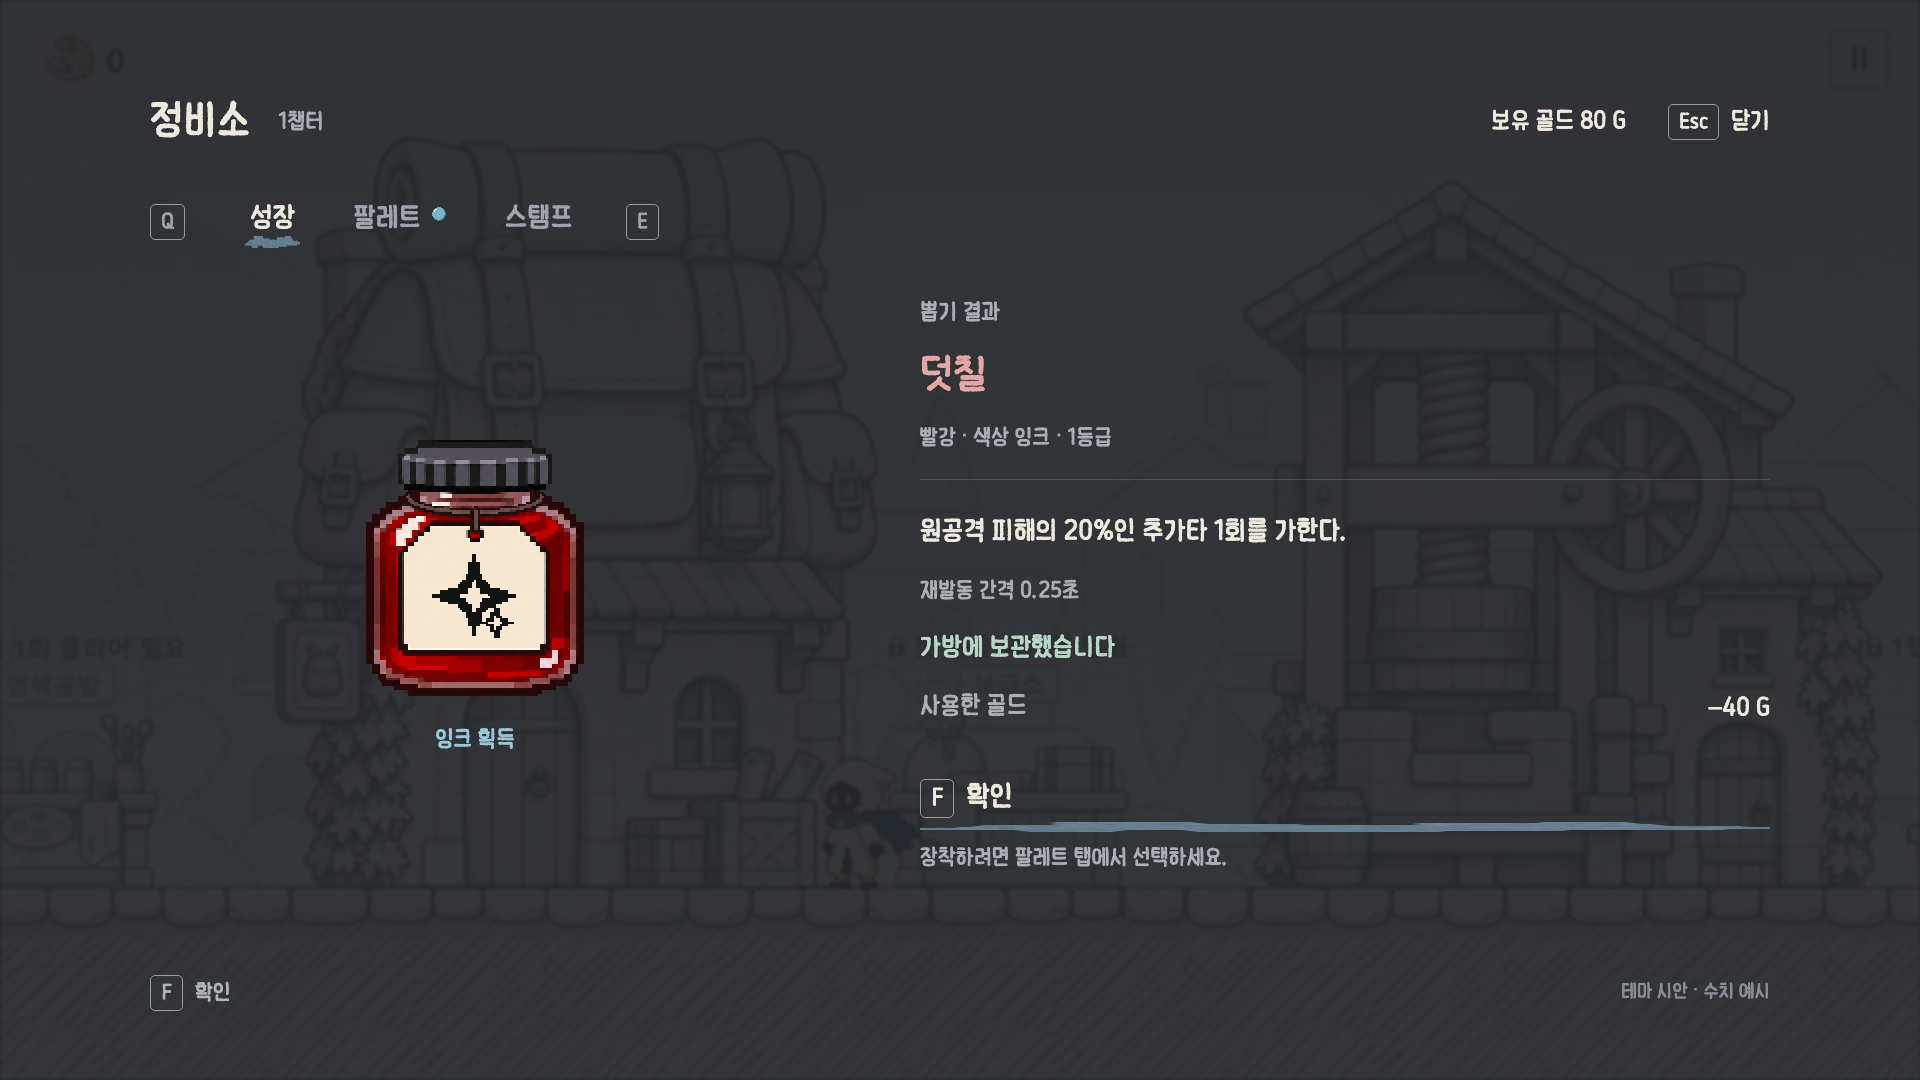
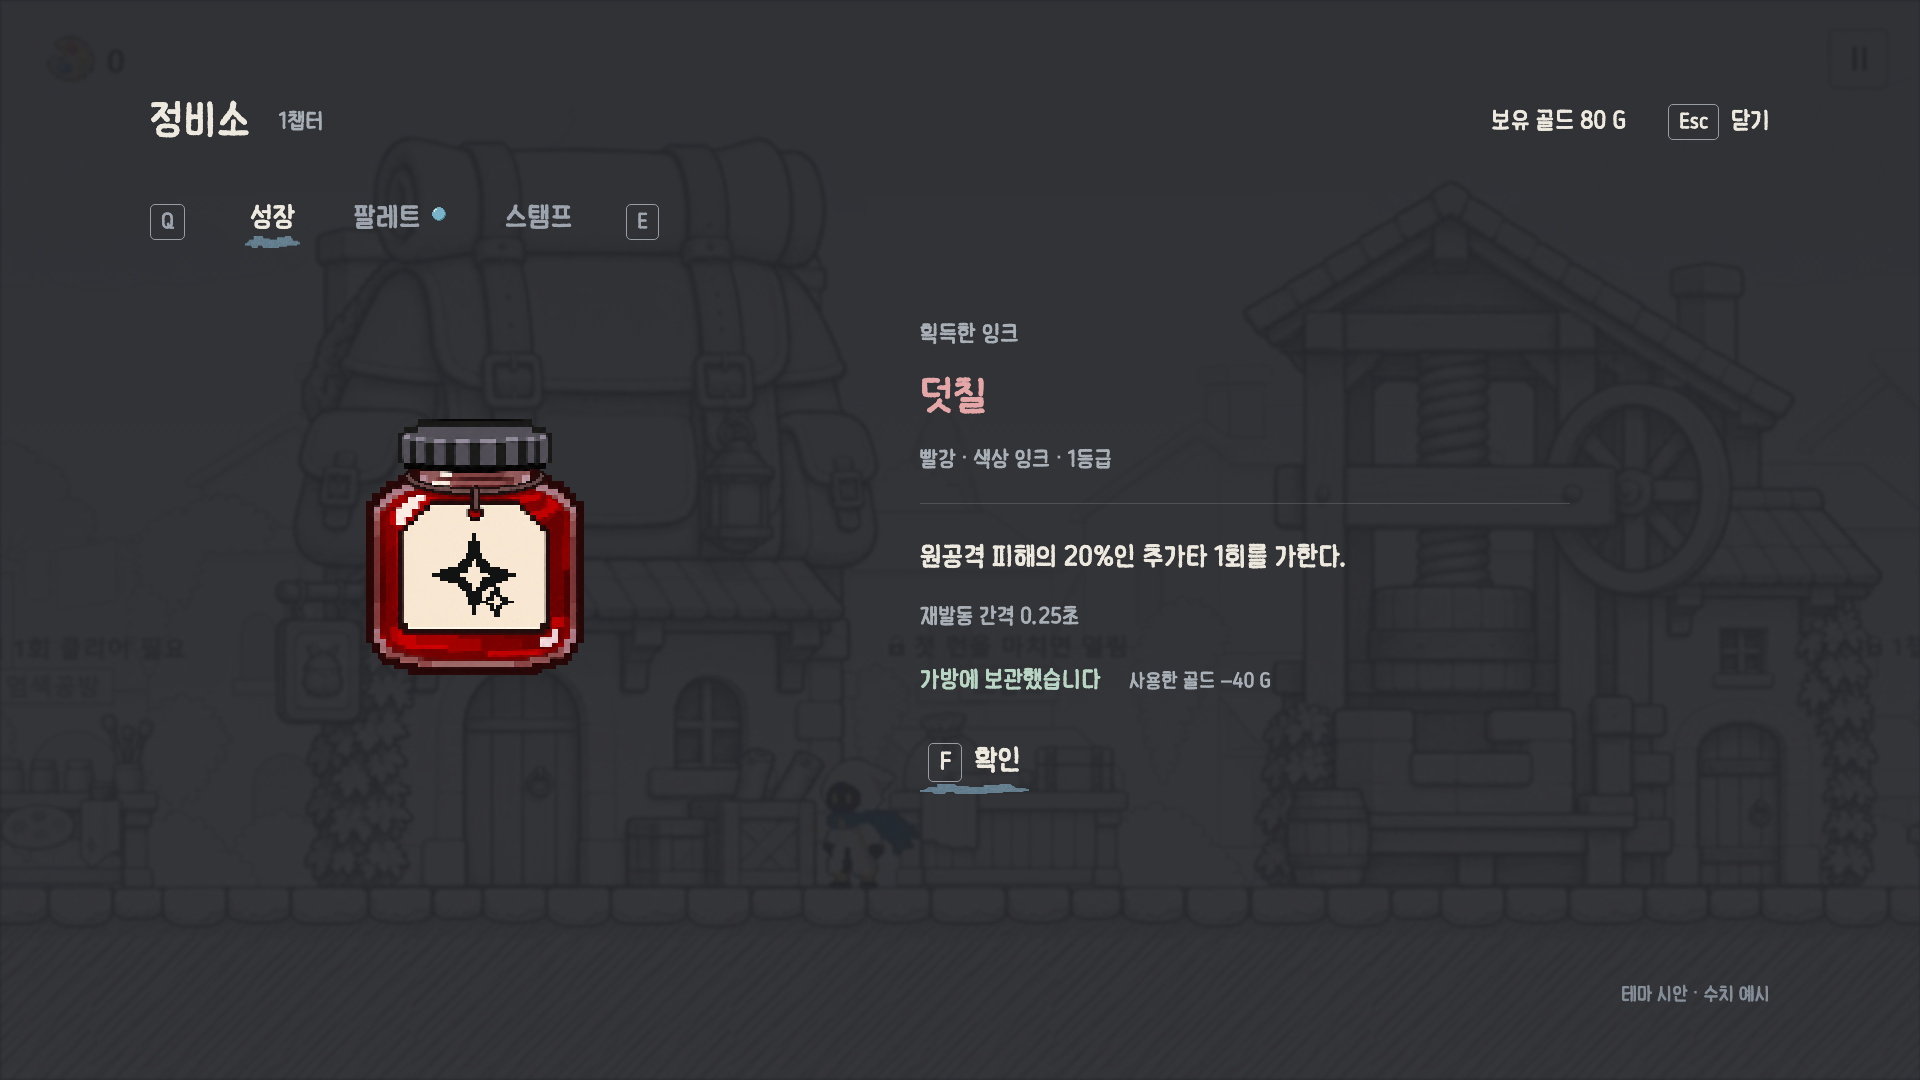
Simplify draw result hierarchy and fit action swash to button content

diff --git a/ui/work/theme/ink-pixel-v1/maintenance-set-v1/index.html b/ui/work/theme/ink-pixel-v1/maintenance-set-v1/index.html
@@ -1,9 +1,9 @@
 <!doctype html><html lang="ko"><meta charset="utf-8"><title>Deviant 정비소 테마</title><style>
-@font-face{font-family:Kkuk;src:url(../assembly-v1/fonts/MemomentKkukkukk.ttf)}*{box-sizing:border-box}body{margin:0;background:#25272c;color:#eee9df;font-family:Kkuk,sans-serif}button{font:inherit;color:inherit;cursor:pointer;border:0;background:none;text-align:left}button:focus-visible{outline:2px solid #9ac7d7;outline-offset:8px}.screen{width:1920px;height:1080px;position:relative;transform-origin:0 0;overflow:hidden}.world{position:absolute;inset:0;background:linear-gradient(#24262bf0,#24262bea),url(assets/village.jpg) center/cover;filter:blur(1px)}main{position:relative;margin:0 150px;padding-top:85px}header{height:72px;display:flex;align-items:center;gap:28px}h1{font-size:43px;font-weight:normal;margin:0}header .meta{font-size:23px;color:#a7adb5}header .right{margin-left:auto;display:flex;align-items:center;gap:42px;font-size:25px}kbd{font:inherit;font-size:22px;border:1px solid #999da3;border-radius:5px;padding:4px 10px;margin-right:12px}nav{display:flex;gap:48px;align-items:center;margin-top:44px;font-size:29px;color:#9da4ae}nav button{padding:0 5px 8px}nav .active{color:#eee9df}.swash{position:relative}.swash:after{content:'';position:absolute;height:12px;bottom:-5px;left:0;right:0;background:url(assets/selection-swash.png) center/100% 100% no-repeat}nav .new{color:#9ac7d7;font-size:19px;margin-left:12px}.layout{display:grid;grid-template-columns:710px 1fr;gap:122px;margin-top:55px}.choices{display:flex;flex-direction:column;gap:28px}.choice{width:100%;height:132px;display:flex;align-items:center;gap:28px;padding:10px 8px;border-bottom:1px solid #a3a6a82d}.choice .icon{width:96px;height:96px;object-fit:contain;image-rendering:pixelated}.choice h2{font-size:32px;font-weight:normal;margin:0 0 10px}.choice p{font-size:23px;color:#a8afb6;margin:0}.price{margin-left:auto;font-size:30px}.choice.selected h2{color:#a7ced8}.choice.selected{border-bottom:0}.slot-icon{width:96px;height:76px;position:relative;flex-shrink:0}.slot-icon img{position:absolute;width:96px;height:68px;image-rendering:pixelated}.label{color:#a8afb6;font-size:24px;margin:0 0 24px}.hero{display:flex;align-items:center;gap:32px;min-height:180px}.hero img{width:144px;height:166px;object-fit:contain;image-rendering:pixelated}.hero h2{font-size:40px;font-weight:normal;margin:0 0 20px}.hero p{font-size:24px;color:#a8afb6;margin:0}.rule{height:1px;background:#a3a6a842;margin:28px 0}.body{font-size:28px;line-height:1.65;margin:0}.muted{color:#a8afb6}.detailrow{display:flex;justify-content:space-between;font-size:25px;margin-top:22px}.next{font-size:23px;color:#a8afb6;margin-top:12px}.action{display:block;width:100%;margin-top:38px;padding:18px 0;font-size:30px;position:relative}.action:after{content:'';position:absolute;bottom:0;height:10px;left:0;right:0;background:url(assets/selection-swash.png) left/100% 100% no-repeat}.action kbd{font-size:25px}.foot{position:absolute;left:150px;right:150px;bottom:74px;display:flex;gap:30px;font-size:23px;color:#adb4bc}.foot .note{margin-left:auto;color:#858e98;font-size:20px}.result{display:grid;grid-template-columns:650px 1fr;gap:120px;margin-top:56px}.resultVisual{display:flex;align-items:center;justify-content:center;flex-direction:column;min-height:430px}.resultVisual>img{width:222px;height:256px;image-rendering:pixelated}.resultVisual .caption{font-size:24px;color:#9ac7d7;margin-top:30px}.result h2{font-weight:normal;font-size:43px;color:#e5a6a7;margin:0 0 12px}.receipt{margin-top:28px;display:flex;justify-content:space-between;font-size:26px}.status{font-size:27px;color:#b9d6c4;margin:28px 0 0}.small{font-size:23px}.disabled{opacity:.45}button:hover{color:#fff}
-.new-dot{display:inline-block;width:16px;height:16px;background:url(assets/new-item-dot.png) center/16px 16px no-repeat;image-rendering:pixelated;margin-left:10px;vertical-align:top;margin-top:5px}</style><div class="screen"><div class="world"></div><main><header><h1>정비소</h1><span class="meta">1챕터</span><div class="right"><span id="gold"></span><span><kbd>Esc</kbd>닫기</span></div></header><nav><kbd>Q</kbd><button class="active swash" onclick="location.search='?view=growth'">성장</button><button>팔레트<span id="badge"></span></button><button>스탬프</button><kbd>E</kbd></nav><div id="content"></div></main><div class="foot"><span id="keys"></span><span class="note">테마 시안 · 수치 예시</span></div></div>
+@font-face{font-family:Kkuk;src:url(../assembly-v1/fonts/MemomentKkukkukk.ttf)}*{box-sizing:border-box}body{margin:0;background:#25272c;color:#eee9df;font-family:Kkuk,sans-serif}button{font:inherit;color:inherit;cursor:pointer;border:0;background:none;text-align:left}button:focus-visible{outline:2px solid #9ac7d7;outline-offset:8px}.screen{width:1920px;height:1080px;position:relative;transform-origin:0 0;overflow:hidden}.world{position:absolute;inset:0;background:linear-gradient(#24262bf0,#24262bea),url(assets/village.jpg) center/cover;filter:blur(1px)}main{position:relative;margin:0 150px;padding-top:85px}header{height:72px;display:flex;align-items:center;gap:28px}h1{font-size:43px;font-weight:normal;margin:0}header .meta{font-size:23px;color:#a7adb5}header .right{margin-left:auto;display:flex;align-items:center;gap:42px;font-size:25px}kbd{font:inherit;font-size:22px;border:1px solid #999da3;border-radius:5px;padding:4px 10px;margin-right:12px}nav{display:flex;gap:48px;align-items:center;margin-top:44px;font-size:29px;color:#9da4ae}nav button{padding:0 5px 8px}nav .active{color:#eee9df}.swash{position:relative}.swash:after{content:'';position:absolute;height:12px;bottom:-5px;left:0;right:0;background:url(assets/selection-swash.png) center/100% 100% no-repeat}nav .new{color:#9ac7d7;font-size:19px;margin-left:12px}.layout{display:grid;grid-template-columns:710px 1fr;gap:122px;margin-top:55px}.choices{display:flex;flex-direction:column;gap:28px}.choice{width:100%;height:132px;display:flex;align-items:center;gap:28px;padding:10px 8px;border-bottom:1px solid #a3a6a82d}.choice .icon{width:96px;height:96px;object-fit:contain;image-rendering:pixelated}.choice h2{font-size:32px;font-weight:normal;margin:0 0 10px}.choice p{font-size:23px;color:#a8afb6;margin:0}.price{margin-left:auto;font-size:30px}.choice.selected h2{color:#a7ced8}.choice.selected{border-bottom:0}.slot-icon{width:96px;height:76px;position:relative;flex-shrink:0}.slot-icon img{position:absolute;width:96px;height:68px;image-rendering:pixelated}.label{color:#a8afb6;font-size:24px;margin:0 0 24px}.hero{display:flex;align-items:center;gap:32px;min-height:180px}.hero img{width:144px;height:166px;object-fit:contain;image-rendering:pixelated}.hero h2{font-size:40px;font-weight:normal;margin:0 0 20px}.hero p{font-size:24px;color:#a8afb6;margin:0}.rule{height:1px;background:#a3a6a842;margin:28px 0}.body{font-size:28px;line-height:1.65;margin:0}.muted{color:#a8afb6}.detailrow{display:flex;justify-content:space-between;font-size:25px;margin-top:22px}.next{font-size:23px;color:#a8afb6;margin-top:12px}.action{display:block;width:max-content;max-width:100%;margin-top:38px;padding:18px 0;font-size:30px;position:relative}.action:after{content:'';position:absolute;bottom:0;height:10px;left:0;right:0;background:url(assets/selection-swash.png) left/100% 100% no-repeat}.action kbd{font-size:25px}.foot{position:absolute;left:150px;right:150px;bottom:74px;display:flex;gap:30px;font-size:23px;color:#adb4bc}.foot .note{margin-left:auto;color:#858e98;font-size:20px}.result{display:grid;grid-template-columns:650px 1fr;gap:120px;margin-top:56px}.resultVisual{display:flex;align-items:center;justify-content:center;flex-direction:column;min-height:430px}.resultVisual>img{width:222px;height:256px;image-rendering:pixelated}.resultVisual .caption{font-size:24px;color:#9ac7d7;margin-top:30px}.result h2{font-weight:normal;font-size:43px;color:#e5a6a7;margin:0 0 12px}.receipt{margin-top:28px;display:flex;justify-content:space-between;font-size:26px}.status{font-size:27px;color:#b9d6c4;margin:28px 0 0}.small{font-size:23px}.disabled{opacity:.45}button:hover{color:#fff}
+.resultInfo{max-width:650px;padding-top:22px}.result .rule{margin:30px 0}.result .body{max-width:570px}.resultSummary{margin-top:36px;display:flex;align-items:center;gap:28px}.resultSummary .status{margin:0;font-size:25px}.spent{font-size:21px}.result .action{margin-top:34px;padding:14px 8px 16px}.resultVisual{min-height:490px}.new-dot{display:inline-block;width:16px;height:16px;background:url(assets/new-item-dot.png) center/16px 16px no-repeat;image-rendering:pixelated;margin-left:10px;vertical-align:top;margin-top:5px}</style><div class="screen"><div class="world"></div><main><header><h1>정비소</h1><span class="meta">1챕터</span><div class="right"><span id="gold"></span><span><kbd>Esc</kbd>닫기</span></div></header><nav><kbd>Q</kbd><button class="active swash" onclick="location.search='?view=growth'">성장</button><button>팔레트<span id="badge"></span></button><button>스탬프</button><kbd>E</kbd></nav><div id="content"></div></main><div class="foot"><span id="keys"></span><span class="note">테마 시안 · 수치 예시</span></div></div>
 <script>
 let result=new URLSearchParams(location.search).get('view')==='result';let selected=new URLSearchParams(location.search).get('item')||'draw';
 const options={draw:{name:'잉크 뽑기',desc:'색상 잉크 1개 · 무작위',price:'40 G',next:'다음 뽑기 60 G',img:'ink3_red_01-jar.png',body:'무작위 색상 잉크를 하나 얻습니다.',extra:'가방 빈 칸 3',hint:'가방이 가득 차면 뽑을 수 없습니다.',action:'뽑기 · 40 G'},attack:{name:'공격 강화',desc:'두 무기 공격력 강화',price:'60 G',next:'다음 강화 90 G',img:'weapon-base_sword.png',body:'두 무기의 공격력을 강화합니다.',extra:'Lv 1 → Lv 2',hint:'공격력 +5% · 이번 런에 적용',action:'길게 눌러 강화 · 60 G'},slot:{name:'슬롯 강화',desc:'팔레트 칸을 골라 강화',price:'선택',next:'선택한 칸에 따라 비용이 표시됩니다.',img:'filled-red.png',body:'강화할 팔레트 칸을 선택합니다.',extra:'무기별 팔레트 관리',hint:'칸을 선택한 뒤 효과와 비용을 확인합니다.',action:'팔레트 관리로'}};
-function render(){gold.textContent='보유 골드 '+(result?'80 G':'120 G');badge.className='new';badge.textContent='';badge.className=result?'new-dot':'';badge.setAttribute('aria-label',result?'새로 획득한 잉크 있음':'');keys.innerHTML=result?'<kbd>F</kbd>확인':'<kbd>↑ ↓</kbd>항목 선택';if(result){content.innerHTML=`<div class="result"><div class="resultVisual"><img src="assets/ink3_red_01-jar.png" alt="덧칠 잉크"><div class="caption">잉크 획득</div></div><section><p class="label">뽑기 결과</p><h2>덧칠</h2><p class="muted small">빨강 · 색상 잉크 · 1등급</p><div class="rule"></div><p class="body">원공격 피해의 20%인 추가타 1회를 가한다.</p><p class="muted small">재발동 간격 0.25초</p><p class="status">가방에 보관했습니다</p><div class="receipt"><span class="muted">사용한 골드</span><span>−40 G</span></div><button class="action" onclick="location.search='?view=growth'"><kbd>F</kbd>확인</button><p class="next">장착하려면 팔레트 탭에서 선택하세요.</p></section></div>`;return;}let d=options[selected];content.innerHTML=`<div class="layout"><section class="choices">${Object.entries(options).map(([k,x])=>`<button class="choice ${k===selected?'selected swash':''}" onclick="selected='${k}';render()"><img class="icon" src="assets/${x.img}"><div><h2>${x.name}</h2><p>${x.desc}</p></div><span class="price">${x.price}</span></button>`).join('')}</section><section><p class="label">${d.name}</p><div class="hero"><img src="assets/${d.img}"><div><h2>${selected==='draw'?'색상 잉크 1개':selected==='attack'?'Lv 1 → Lv 2':'팔레트 칸 강화'}</h2><p>${selected==='draw'?'색상과 효과는 무작위':d.desc}</p></div></div><div class="rule"></div><p class="body">${d.body}</p><div class="detailrow"><span class="muted">${selected==='draw'?'보관 공간':'강화 대상'}</span><span>${d.extra}</span></div><p class="next">${d.hint}</p><button class="action" onclick="${selected==='draw'?"location.search='?view=result'":"void(0)"}"><kbd>F</kbd>${d.action}</button><p class="next">${d.next}</p></section></div>`}
+function render(){gold.textContent='보유 골드 '+(result?'80 G':'120 G');badge.className='new';badge.textContent='';badge.className=result?'new-dot':'';badge.setAttribute('aria-label',result?'새로 획득한 잉크 있음':'');keys.innerHTML=result?'':'<kbd>↑ ↓</kbd>항목 선택';if(result){content.innerHTML=`<div class="result"><div class="resultVisual"><img src="assets/ink3_red_01-jar.png" alt="덧칠 잉크"></div><section class="resultInfo"><p class="label">획득한 잉크</p><h2>덧칠</h2><p class="muted small">빨강 · 색상 잉크 · 1등급</p><div class="rule"></div><p class="body">원공격 피해의 20%인 추가타 1회를 가한다.</p><p class="muted small">재발동 간격 0.25초</p><div class="resultSummary"><p class="status">가방에 보관했습니다</p><span class="muted spent">사용한 골드 −40 G</span></div><button class="action" onclick="location.search='?view=growth'"><kbd>F</kbd>확인</button></section></div>`;return;}let d=options[selected];content.innerHTML=`<div class="layout"><section class="choices">${Object.entries(options).map(([k,x])=>`<button class="choice ${k===selected?'selected swash':''}" onclick="selected='${k}';render()"><img class="icon" src="assets/${x.img}"><div><h2>${x.name}</h2><p>${x.desc}</p></div><span class="price">${x.price}</span></button>`).join('')}</section><section><p class="label">${d.name}</p><div class="hero"><img src="assets/${d.img}"><div><h2>${selected==='draw'?'색상 잉크 1개':selected==='attack'?'Lv 1 → Lv 2':'팔레트 칸 강화'}</h2><p>${selected==='draw'?'색상과 효과는 무작위':d.desc}</p></div></div><div class="rule"></div><p class="body">${d.body}</p><div class="detailrow"><span class="muted">${selected==='draw'?'보관 공간':'강화 대상'}</span><span>${d.extra}</span></div><p class="next">${d.hint}</p><button class="action" onclick="${selected==='draw'?"location.search='?view=result'":"void(0)"}"><kbd>F</kbd>${d.action}</button><p class="next">${d.next}</p></section></div>`}
 function fit(){document.querySelector('.screen').style.transform=`scale(${Math.min(innerWidth/1920,innerHeight/1080)})`}document.addEventListener('keydown',e=>{if(e.repeat)return;if(e.key.toLowerCase()==='f' && (result||selected==='draw')){e.preventDefault();location.search=result?'?view=growth':'?view=result';}if(!result && ['ArrowUp','ArrowDown'].includes(e.key)){e.preventDefault();const a=['draw','attack','slot'];selected=a[(a.indexOf(selected)+(e.key==='ArrowDown'?1:2))%3];render();}});onresize=fit;fit();render();
 </script></html>
